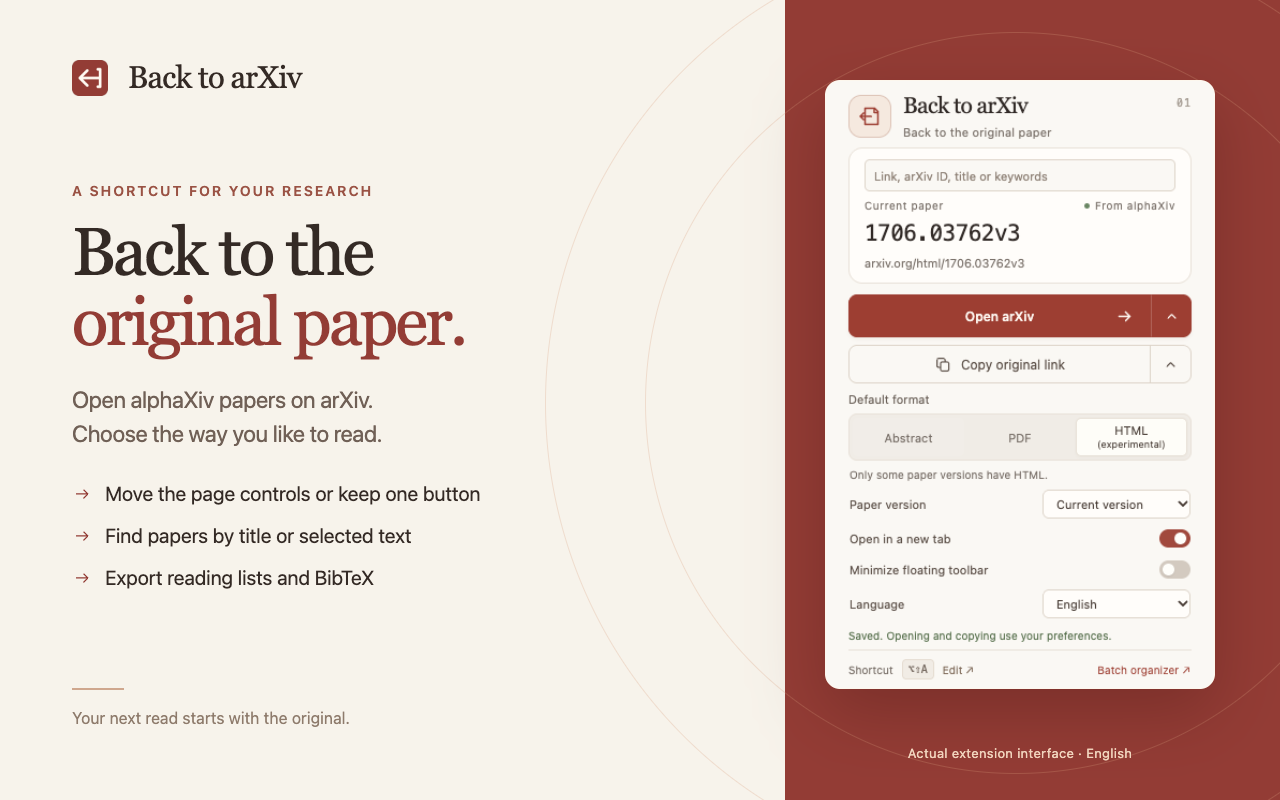
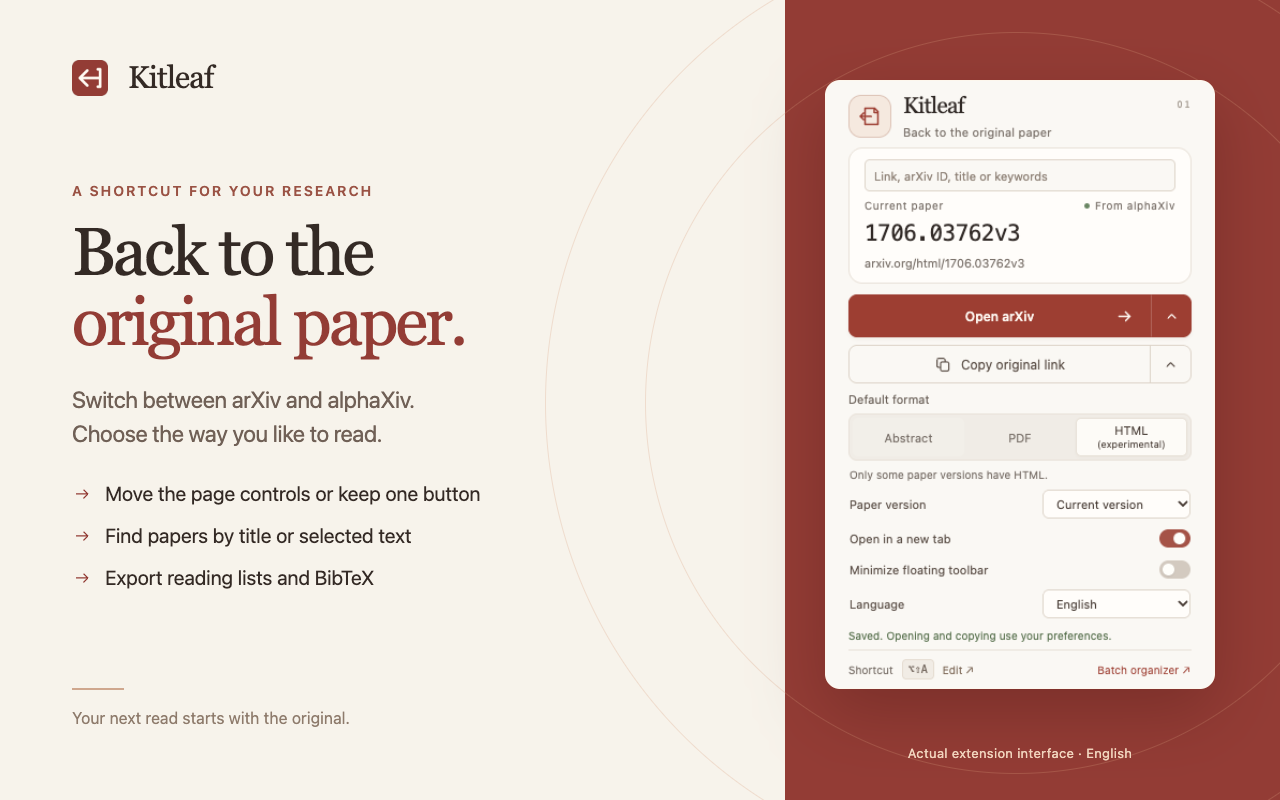
Rename extension branding to Kitleaf

Changed region(s): [[0.0625, 0.4688, 0.3125, 0.5312], [0.0938, 0.0625, 0.25, 0.125], [0.7188, 0.125, 0.8125, 0.1562]]

diff --git a/store/privacy-policy.html b/store/privacy-policy.html
@@ -3,8 +3,8 @@
 <head>
   <meta charset="utf-8">
   <meta name="viewport" content="width=device-width, initial-scale=1">
-  <meta name="description" content="How Back to arXiv handles paper references, optional arXiv search and metadata lookup, Markdown and BibTeX exports, preferences, and navigation.">
-  <title>Back to arXiv — Privacy Policy</title>
+  <meta name="description" content="How Kitleaf handles paper references, optional arXiv search and metadata lookup, Markdown and BibTeX exports, preferences, and navigation.">
+  <title>Kitleaf — Privacy Policy</title>
   <style>
     :root { color-scheme: light; font-family: system-ui, sans-serif; color: #312a27; background: #faf8f4; }
     body { max-width: 760px; padding: 48px 24px 72px; margin: auto; line-height: 1.7; }
@@ -16,10 +16,10 @@
   </style>
 </head>
 <body>
-  <div class="brand">Back to arXiv</div>
+  <div class="brand">Kitleaf</div>
   <h1>Privacy Policy</h1>
   <p class="date">Effective date: November 17, 2026 · Extension version 0.10.0</p>
-  <p>Back to arXiv helps you open arXiv papers, organize references, and export reading lists. You can search by title or use selected text to find a paper. The batch organizer can optionally retrieve public paper metadata from arXiv and generate title-based Markdown and BibTeX. This policy describes the information used by these features.</p>
+  <p>Kitleaf helps you open arXiv papers, organize references, and export reading lists. You can search by title or use selected text to find a paper. The batch organizer can optionally retrieve public paper metadata from arXiv and generate title-based Markdown and BibTeX. This policy describes the information used by these features.</p>
 
   <h2>Information used by the extension</h2>
   <ul>
@@ -44,13 +44,13 @@
   <p>Information received through Chrome APIs is used only for the stated paper-navigation, reference-organization, metadata-retrieval, and citation-export features, in accordance with the <a href="https://developer.chrome.com/docs/webstore/program-policies/user-data-faq">Chrome Web Store User Data Policy</a> and its Limited Use requirements. User data is not sold, used for advertising, or used for creditworthiness or lending decisions.</p>
 
   <h2>Updates and contact</h2>
-  <p>This page is updated when data practices change. Questions about this policy can be raised through <a href="https://github.com/timerring/back-to-arxiv/issues">Back to arXiv's GitHub Issues</a>. Issues are public; private inquiries can use the developer contact on the store listing when available.</p>
+  <p>This page is updated when data practices change. Questions about this policy can be raised through <a href="https://github.com/timerring/back-to-arxiv/issues">Kitleaf's GitHub Issues</a>. Issues are public; private inquiries can use the developer contact on the store listing when available.</p>
 
   <details lang="zh-CN">
     <summary>简体中文说明</summary>
     <h2>隐私政策</h2>
     <p class="date">生效日期：2026 年 11 月 17 日 · 扩展版本 0.10.0</p>
-    <p>Back to arXiv 用于查找和打开论文、整理引用和导出阅读清单。批量工作台还可按需从 arXiv 获取公开论文元数据，生成带标题的 Markdown 和 BibTeX。以下说明这些功能处理的信息。</p>
+    <p>Kitleaf 用于查找和打开论文、整理引用和导出阅读清单。批量工作台还可按需从 arXiv 获取公开论文元数据，生成带标题的 Markdown 和 BibTeX。以下说明这些功能处理的信息。</p>
     <h3>扩展处理的信息</h3>
     <p><strong>页面与链接网址：</strong>在 alphaXiv 和 arXiv 读取当前网址来识别论文并显示控件；调用工具栏或快捷键时读取当前标签页网址；主动选择论文链接右键操作时读取该链接目标。这些值仅在运行时内存中用于请求的操作。</p>
     <p><strong>主动输入的引用：</strong>用户可在面板或批量工作台输入网址、编号、Markdown 链接与 arXiv DOI。完整输入在本地解析，用于识别论文、重复与错误行并生成导出。粘贴的标签不作为论文元数据。解析和去重不请求 DOI 解析器或元数据服务。输入和结果仅保留在相应页面内存，关闭或刷新后清空。</p>

diff --git a/store/assets-source/showcase-en.html b/store/assets-source/showcase-en.html
@@ -1,4 +1,4 @@
-<!doctype html><html lang="en"><head><meta charset="utf-8"><title>Back to arXiv — Original papers, one click away</title><style>
+<!doctype html><html lang="en"><head><meta charset="utf-8"><title>Kitleaf — Original papers, one click away</title><style>
   * { box-sizing: border-box; }
   html, body { margin: 0; width: 100%; height: 100%; }
   body { color: #342a25; background: #f7f3eb; font-family: -apple-system, BlinkMacSystemFont, 'Segoe UI', 'PingFang SC', sans-serif; }
@@ -30,11 +30,11 @@
   html[lang='zh-CN'] .eyebrow { letter-spacing: 2px; }
 </style></head><body><main class="showcase">
     <div class="right" aria-hidden="true"></div>
-    <div class="brand"><img src="../assets/icon-128.png" alt=""><span>Back to arXiv</span></div>
-    <section class="copy"><p class="eyebrow">A shortcut for your research</p><h1>Back to the<br><em>original paper.</em></h1><p class="intro">Open alphaXiv papers on arXiv.<br>Choose the way you like to read.</p>
+    <div class="brand"><img src="../assets/icon-128.png" alt=""><span>Kitleaf</span></div>
+    <section class="copy"><p class="eyebrow">A shortcut for your research</p><h1>Back to the<br><em>original paper.</em></h1><p class="intro">Switch between arXiv and alphaXiv.<br>Choose the way you like to read.</p>
       <ul class="features"><li><svg viewBox="0 0 24 24" fill="none" aria-hidden="true"><path d="M5 12h14m-5-5 5 5-5 5" stroke="currentColor" stroke-width="1.5" stroke-linecap="round" stroke-linejoin="round"/></svg><span>Move the page controls or keep one button</span></li><li><svg viewBox="0 0 24 24" fill="none" aria-hidden="true"><path d="M5 12h14m-5-5 5 5-5 5" stroke="currentColor" stroke-width="1.5" stroke-linecap="round" stroke-linejoin="round"/></svg><span>Find papers by title or selected text</span></li><li><svg viewBox="0 0 24 24" fill="none" aria-hidden="true"><path d="M5 12h14m-5-5 5 5-5 5" stroke="currentColor" stroke-width="1.5" stroke-linecap="round" stroke-linejoin="round"/></svg><span>Export reading lists and BibTeX</span></li></ul>
     </section>
     <p class="foot">Your next read starts with the original.</p>
-    <div class="capture-frame"><img src="popup-en.png" alt="Actual Back to arXiv popup in English"></div>
+    <div class="capture-frame"><img src="popup-en.png" alt="Actual Kitleaf popup in English"></div>
     <div class="capture-label">Actual extension interface · English</div>
   </main></body></html>

diff --git a/store/assets-source/showcase-zh-CN.html b/store/assets-source/showcase-zh-CN.html
@@ -1,4 +1,4 @@
-<!doctype html><html lang="zh-CN"><head><meta charset="utf-8"><title>Back to arXiv — 回到论文原文</title><style>
+<!doctype html><html lang="zh-CN"><head><meta charset="utf-8"><title>Kitleaf — 回到论文原文</title><style>
   * { box-sizing: border-box; }
   html, body { margin: 0; width: 100%; height: 100%; }
   body { color: #342a25; background: #f7f3eb; font-family: -apple-system, BlinkMacSystemFont, 'Segoe UI', 'PingFang SC', sans-serif; }
@@ -30,11 +30,11 @@
   html[lang='zh-CN'] .eyebrow { letter-spacing: 2px; }
 </style></head><body><main class="showcase">
     <div class="right" aria-hidden="true"></div>
-    <div class="brand"><img src="../assets/icon-128.png" alt=""><span>Back to arXiv</span></div>
-    <section class="copy"><p class="eyebrow">让论文阅读更顺手</p><h1>从 alphaXiv<br><em>回到论文原文</em></h1><p class="intro">一键打开对应的 arXiv 论文。<br>选择你习惯的阅读方式。</p>
+    <div class="brand"><img src="../assets/icon-128.png" alt=""><span>Kitleaf</span></div>
+    <section class="copy"><p class="eyebrow">让论文阅读更顺手</p><h1>论文阅读<br><em>自由切换</em></h1><p class="intro">arXiv 与 alphaXiv 一键互跳。<br>选择你习惯的阅读方式。</p>
       <ul class="features"><li><svg viewBox="0 0 24 24" fill="none" aria-hidden="true"><path d="M5 12h14m-5-5 5 5-5 5" stroke="currentColor" stroke-width="1.5" stroke-linecap="round" stroke-linejoin="round"/></svg><span>拖动浮条，或只保留一个按钮</span></li><li><svg viewBox="0 0 24 24" fill="none" aria-hidden="true"><path d="M5 12h14m-5-5 5 5-5 5" stroke="currentColor" stroke-width="1.5" stroke-linecap="round" stroke-linejoin="round"/></svg><span>输入标题或选中文字查找论文</span></li><li><svg viewBox="0 0 24 24" fill="none" aria-hidden="true"><path d="M5 12h14m-5-5 5 5-5 5" stroke="currentColor" stroke-width="1.5" stroke-linecap="round" stroke-linejoin="round"/></svg><span>导出带标题的清单与 BibTeX</span></li></ul>
     </section>
     <p class="foot">从原文开始，继续你的研究。</p>
-    <div class="capture-frame"><img src="popup-zh-CN.png" alt="Back to arXiv 的真实简体中文弹窗"></div>
+    <div class="capture-frame"><img src="popup-zh-CN.png" alt="Kitleaf 的真实简体中文弹窗"></div>
     <div class="capture-label">真实插件界面 · 简体中文</div>
   </main></body></html>

diff --git a/src/content.ts b/src/content.ts
@@ -47,7 +47,7 @@ shadow.innerHTML = `
     @media (max-width: 600px) { :host { right: 16px; bottom: 16px; } }
     @media (prefers-reduced-motion: reduce) { a { transition: none; } }
   </style>
-  <div class="dock" role="group" aria-label="Back to arXiv" data-i18n-aria-label="extName">
+  <div class="dock" role="group" aria-label="Kitleaf" data-i18n-aria-label="extName">
     <button id="dock-grip" type="button" data-i18n-title="dockDrag" data-i18n-aria-label="dockDrag">
       <svg width="10" height="18" viewBox="0 0 10 18" fill="currentColor" aria-hidden="true"><circle cx="3" cy="4" r="1.3"/><circle cx="7" cy="4" r="1.3"/><circle cx="3" cy="9" r="1.3"/><circle cx="7" cy="9" r="1.3"/><circle cx="3" cy="14" r="1.3"/><circle cx="7" cy="14" r="1.3"/></svg>
     </button>
@@ -144,7 +144,7 @@ async function changeMode(value: boolean): Promise<void> {
     applyMinimized(value);
     (value ? openLink : minimize).focus();
   } catch (error) {
-    console.info('Back to arXiv: could not save toolbar mode', error);
+    console.info('Kitleaf: could not save toolbar mode', error);
   }
 }
 
@@ -386,5 +386,5 @@ async function start(): Promise<void> {
 }
 
 void start().catch((error: unknown) => {
-  console.info(`Back to arXiv: ${translate('reloadExtension', preferences.language)}`, error);
+  console.info(`Kitleaf: ${translate('reloadExtension', preferences.language)}`, error);
 });

diff --git a/store/assets-source/promo-small.html b/store/assets-source/promo-small.html
@@ -1,4 +1,4 @@
-<!doctype html><html lang="en"><head><meta charset="utf-8"><title>Back to arXiv</title><style>
+<!doctype html><html lang="en"><head><meta charset="utf-8"><title>Kitleaf</title><style>
       *{box-sizing:border-box}html,body{margin:0;width:440px;height:280px;overflow:hidden;background:#933c35;color:#fff8ec}
       body{font-family:-apple-system,BlinkMacSystemFont,'Segoe UI',sans-serif}
       main{position:relative;width:440px;height:280px;padding:26px 30px}
@@ -7,4 +7,4 @@
       h1{position:relative;margin:23px 0 17px;font:41px/1.05 Georgia,serif;letter-spacing:-1.2px}
       p{margin:0;font-size:15px;color:#f2c9b4;letter-spacing:.25px}
       .orbit{position:absolute;width:370px;height:370px;left:300px;top:15px;border:1px solid #f0c2a744;border-radius:50%}
-    </style></head><body><main><div class="orbit" aria-hidden="true"></div><div class="brand"><span class="mark"><img src="../assets/icon-128.png" alt=""></span>Back to arXiv</div><h1>Back to the<br>original paper.</h1><p>alphaXiv → arXiv</p></main></body></html>
+    </style></head><body><main><div class="orbit" aria-hidden="true"></div><div class="brand"><span class="mark"><img src="../assets/icon-128.png" alt=""></span>Kitleaf</div><h1>Back to the<br>original paper.</h1><p>arXiv ↔ alphaXiv</p></main></body></html>

diff --git a/public/search.html b/public/search.html
@@ -4,13 +4,13 @@
     <meta charset="UTF-8" />
     <meta name="viewport" content="width=device-width, initial-scale=1" />
     <meta name="referrer" content="no-referrer" />
-    <title data-i18n="searchPageTitle">Search arXiv · Back to arXiv</title>
+    <title data-i18n="searchPageTitle">Search arXiv · Kitleaf</title>
     <link rel="stylesheet" href="search.css" />
     <script src="search.js" defer></script>
   </head>
   <body>
     <main>
-      <header><img src="icons/icon-48.png" width="30" height="30" alt="" />Back to arXiv</header>
+      <header><img src="icons/icon-48.png" width="30" height="30" alt="" />Kitleaf</header>
       <h1 data-i18n="searchHeading">Search arXiv</h1>
       <form id="search-form" autocomplete="off">
         <label for="search-input" data-i18n="searchInputLabel">Title or keywords</label>

diff --git a/public/batch.html b/public/batch.html
@@ -3,14 +3,14 @@
   <head>
     <meta charset="UTF-8" />
     <meta name="viewport" content="width=device-width, initial-scale=1" />
-    <title data-i18n="batchPageTitle">Batch organizer · Back to arXiv</title>
+    <title data-i18n="batchPageTitle">Batch organizer · Kitleaf</title>
     <link rel="stylesheet" href="batch.css" />
     <script src="batch.js" defer></script>
   </head>
   <body>
     <main>
       <header class="page-header">
-        <div class="brand"><img src="icons/icon-48.png" width="32" height="32" alt="" /><span>Back to arXiv</span></div>
+        <div class="brand"><img src="icons/icon-48.png" width="32" height="32" alt="" /><span>Kitleaf</span></div>
         <span class="local-note" data-i18n="batchLocalNote">Fetch only on request · No draft saved</span>
       </header>
 

diff --git a/index.html b/index.html
@@ -4,10 +4,10 @@
   <meta charset="utf-8">
   <meta name="viewport" content="width=device-width, initial-scale=1">
   <meta http-equiv="refresh" content="0; url=store/privacy-policy.html">
-  <meta name="description" content="Read the privacy policy for Back to arXiv.">
-  <title>Back to arXiv — Privacy Policy</title>
+  <meta name="description" content="Read the privacy policy for Kitleaf.">
+  <title>Kitleaf — Privacy Policy</title>
 </head>
 <body>
-  <p><a href="store/privacy-policy.html">Read the Back to arXiv privacy policy</a>.</p>
+  <p><a href="store/privacy-policy.html">Read the Kitleaf privacy policy</a>.</p>
 </body>
 </html>

diff --git a/public/popup.html b/public/popup.html
@@ -3,7 +3,7 @@
   <head>
     <meta charset="UTF-8" />
     <meta name="viewport" content="width=device-width, initial-scale=1" />
-    <title data-i18n="extName">Back to arXiv</title>
+    <title data-i18n="extName">Kitleaf</title>
     <link rel="stylesheet" href="popup.css" />
     <script src="popup.js" defer></script>
   </head>
@@ -17,7 +17,7 @@
           </svg>
         </span>
         <div>
-          <h1 data-i18n="extName">Back to arXiv</h1>
+          <h1 data-i18n="extName">Kitleaf</h1>
           <p class="tagline" data-i18n="tagline">Back to the original paper</p>
         </div>
         <span class="edition">01</span>

diff --git a/src/batch-page.ts b/src/batch-page.ts
@@ -372,7 +372,7 @@ function downloadExport(kind: 'markdown' | 'bibtex'): void {
     const text = kind === 'markdown' ? currentMarkdown() : currentBibtex();
     url = URL.createObjectURL(new Blob([text], { type: kind === 'markdown' ? 'text/markdown;charset=utf-8' : 'application/x-bibtex;charset=utf-8' }));
     link.href = url;
-    link.download = `back-to-arxiv-reading-list.${kind === 'markdown' ? 'md' : 'bib'}`;
+    link.download = `kitleaf-reading-list.${kind === 'markdown' ? 'md' : 'bib'}`;
     link.hidden = true;
     document.body.append(link);
     link.click();

diff --git a/src/toolbar-layout.ts b/src/toolbar-layout.ts
@@ -62,7 +62,7 @@ export function attachDockMovement(host: HTMLElement, grip: HTMLElement, link: H
 
   function remember(position: ToolbarPosition): void {
     saved = position;
-    void setToolbarPosition(position).catch((error: unknown) => console.info('Back to arXiv: could not save toolbar position', error));
+    void setToolbarPosition(position).catch((error: unknown) => console.info('Kitleaf: could not save toolbar position', error));
   }
 
   for (const target of [grip, link]) {

diff --git a/src/background.ts b/src/background.ts
@@ -18,6 +18,6 @@ chrome.commands.onCommand.addListener((command, tab) => {
     if (activeTab) await openPaperTab(activeTab);
   })().catch((error: unknown) => {
     // The popup explains supported pages and exposes the same action.
-    console.info('Back to arXiv:', error instanceof Error ? error.message : error);
+    console.info('Kitleaf:', error instanceof Error ? error.message : error);
   });
 });
